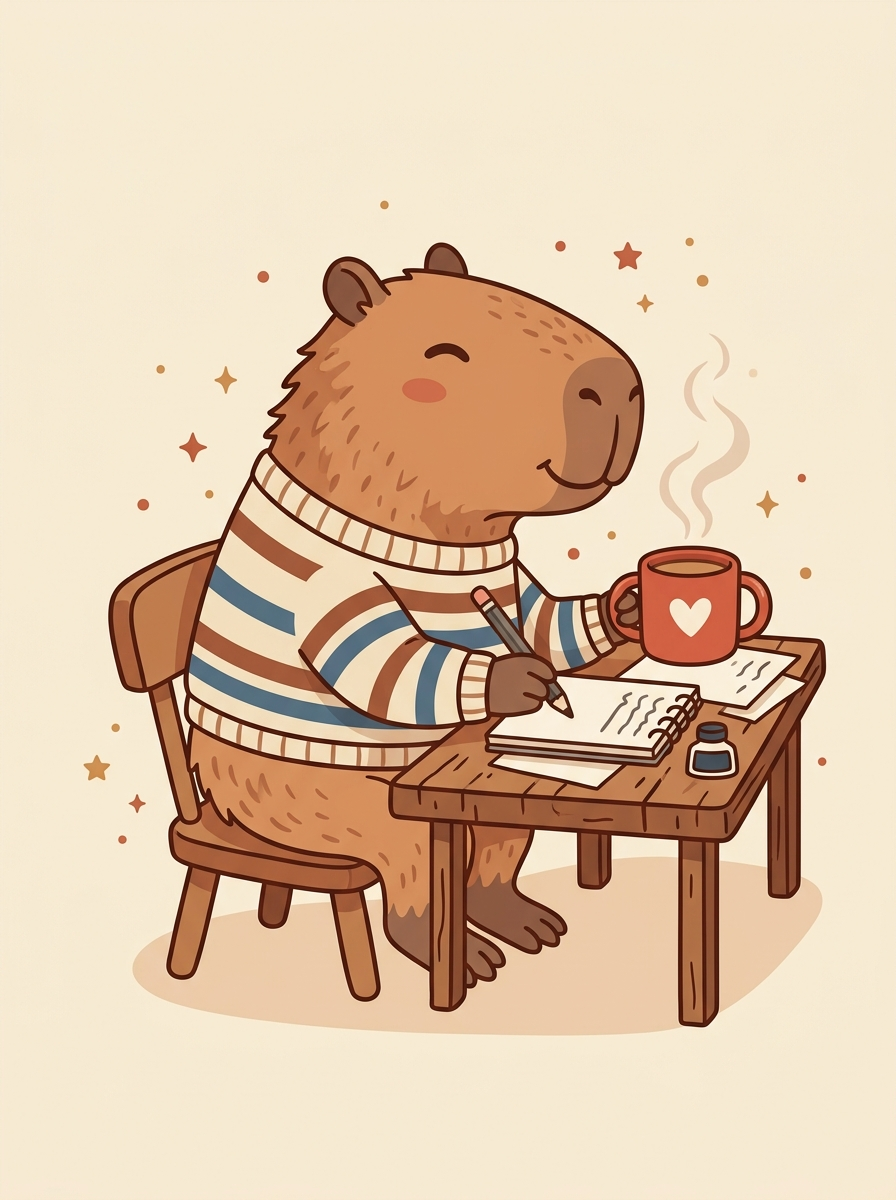
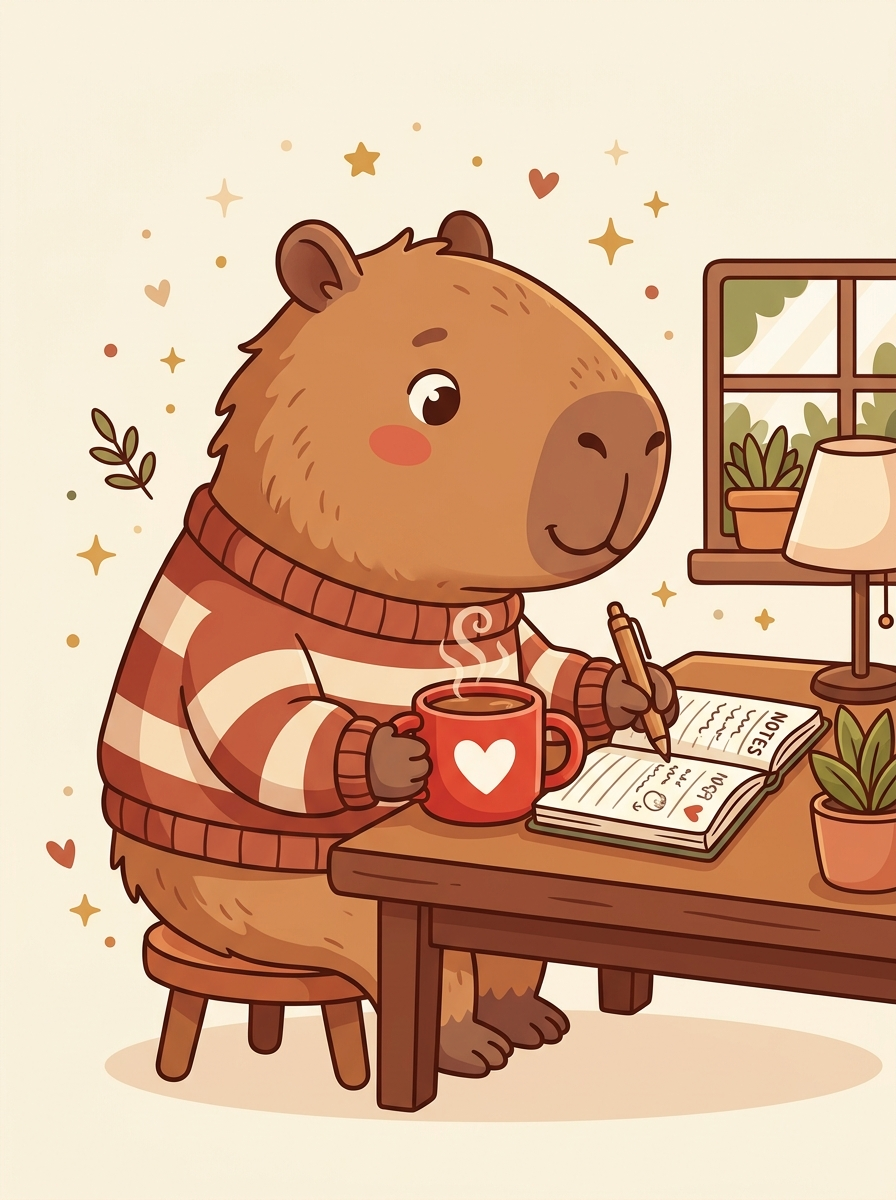
Fix homepage design to match premium mockup layout and multiply blend capybara

diff --git a/src/pages/HomePage.tsx b/src/pages/HomePage.tsx
@@ -3,77 +3,118 @@ import { getCatalogApps } from '../lib/apps';
 import { useDocumentMeta } from '../hooks/useDocumentMeta';
 import type { AppEntry } from '../types';
 
-/* ─── Icon SVGs per app slug ─── */
-function AppIcon({ slug, color, size = 28 }: { slug: string; color: string; size?: number }) {
-  const p = { width: size, height: size, viewBox: '0 0 24 24', fill: 'none', stroke: color, strokeWidth: 2, strokeLinecap: 'round' as const, strokeLinejoin: 'round' as const };
+/* ─── Premium Icon SVGs with filled shapes ─── */
+function AppIcon({ slug, color, size = 26 }: { slug: string; color: string; size?: number }) {
+  const p = { width: size, height: size, viewBox: '0 0 24 24', fill: 'none', stroke: color, strokeWidth: 2.25, strokeLinecap: 'round' as const, strokeLinejoin: 'round' as const };
   switch (slug) {
     case 'verbio':
-      return (<svg {...p}><path d="M4 19.5A2.5 2.5 0 0 1 6.5 17H20"/><path d="M6.5 2H20v20H6.5A2.5 2.5 0 0 1 4 19.5v-15A2.5 2.5 0 0 1 6.5 2z"/><path d="M8 7h8M8 11h6"/></svg>);
+      return (
+        <svg {...p}>
+          <path d="M4 19.5A2.5 2.5 0 0 1 6.5 17H20" />
+          <path d="M6.5 2H20v20H6.5A2.5 2.5 0 0 1 4 19.5v-15A2.5 2.5 0 0 1 6.5 2z" />
+          <circle cx="12" cy="10" r="2" fill={`${color}30`} />
+        </svg>
+      );
     case 'app-2':
-      return (<svg {...p}><path d="M14 2H6a2 2 0 0 0-2 2v16a2 2 0 0 0 2 2h12a2 2 0 0 0 2-2V8z"/><polyline points="14 2 14 8 20 8"/><line x1="16" y1="13" x2="8" y2="13"/><line x1="16" y1="17" x2="8" y2="17"/></svg>);
+      return (
+        <svg {...p}>
+          <path d="M14 2H6a2 2 0 0 0-2 2v16a2 2 0 0 0 2 2h12a2 2 0 0 0 2-2V8z" />
+          <polyline points="14 2 14 8 20 8" />
+          <line x1="16" y1="13" x2="8" y2="13" />
+          <line x1="16" y1="17" x2="8" y2="17" />
+        </svg>
+      );
     case 'app-3':
-      return (<svg {...p}><polyline points="22 12 18 12 15 21 9 3 6 12 2 12"/></svg>);
+      return (
+        <svg {...p}>
+          <path d="M3 3v18h18" />
+          <path d="M18.7 8l-5.1 5.2-2.8-2.7L7 14.3" />
+        </svg>
+      );
     case 'app-4':
-      return (<svg {...p}><path d="M17 21v-2a4 4 0 0 0-4-4H5a4 4 0 0 0-4 4v2"/><circle cx="9" cy="7" r="4"/><path d="M23 21v-2a4 4 0 0 0-3-3.87"/><path d="M16 3.13a4 4 0 0 1 0 7.75"/></svg>);
+      return (
+        <svg {...p}>
+          <path d="M17 21v-2a4 4 0 0 0-4-4H5a4 4 0 0 0-4 4v2" />
+          <circle cx="9" cy="7" r="4" fill={`${color}20`} />
+          <path d="M23 21v-2a4 4 0 0 0-3-3.87" />
+          <path d="M16 3.13a4 4 0 0 1 0 7.75" />
+        </svg>
+      );
     default:
-      return (<svg {...p}><rect x="3" y="3" width="18" height="18" rx="2" ry="2"/><path d="M9 12l2 2 4-4"/></svg>);
+      return (
+        <svg {...p}>
+          <rect x="3" y="3" width="18" height="18" rx="2" ry="2" />
+          <path d="M9 12l2 2 4-4" />
+        </svg>
+      );
   }
+}
+
+/* ─── Decorative 4-Point Golden Star SVG ─── */
+function GoldenStar({ className, style }: { className: string; style?: React.CSSProperties }) {
+  return (
+    <svg viewBox="0 0 24 24" className={`w-5 h-5 text-[#eab308] fill-current animate-float ${className}`} style={style}>
+      <path d="M12 0L14.8 9.2L24 12L14.8 14.8L12 24L9.2 14.8L0 12L9.2 9.2L12 0Z" />
+    </svg>
+  );
 }
 
 /* ─── Floating icon positions (desktop) ─── */
 const iconPositions = [
-  { top: '5%',  left: '2%',  delay: '0s' },
-  { top: '0%',  right: '5%', delay: '0.6s' },
-  { bottom: '15%', right: '0%', delay: '1.2s' },
-  { bottom: '5%',  left: '5%', delay: '1.8s' },
+  { top: '8%',   left: '4%',   delay: '0s' },
+  { top: '0%',   right: '6%',  delay: '0.6s' },
+  { bottom: '16%', right: '0%',  delay: '1.2s' },
+  { bottom: '3%',  left: '6%',   delay: '1.8s' },
 ];
 
 /* ─── Detail panel for a selected app ─── */
 function AppDetailPanel({ app, onClose }: { app: AppEntry; onClose: () => void }) {
   const isVerbio = app.slug === 'verbio';
   return (
-    <div className="animate-panel-expand mt-8 mx-auto max-w-4xl rounded-2xl bg-card border-2 border-[#e05e26]/25 p-8 lg:p-10"
-         style={{ boxShadow: '4px 4px 0 #d97706' }}>
-      <div className="flex flex-col sm:flex-row items-start justify-between gap-6">
+    <div className="animate-panel-expand mt-10 mx-auto max-w-4xl rounded-2xl bg-card border-2 border-clay/35 p-8 lg:p-10"
+         style={{ boxShadow: '6px 6px 0 var(--color-clay)' }}>
+      <div className="flex flex-col sm:flex-row items-start justify-between gap-8">
         <div className="flex-1 min-w-0">
-          <div className="flex items-center gap-3 mb-3">
-            <div className="flex h-10 w-10 items-center justify-center rounded-xl"
+          <div className="flex items-center gap-3 mb-4">
+            <div className="flex h-11 w-11 items-center justify-center rounded-xl"
                  style={{ backgroundColor: `${app.accentColor}18` }}>
-              <AppIcon slug={app.slug} color={app.accentColor} size={22} />
+              <AppIcon slug={app.slug} color={app.accentColor} size={24} />
             </div>
             <h3 className="font-sans text-2xl font-bold text-ink tracking-tight">{app.name}</h3>
           </div>
-          <p className="text-[15px] leading-relaxed text-ink-soft max-w-lg">{app.description}</p>
+          <p className="text-[16px] leading-relaxed text-ink-soft max-w-xl">{app.description}</p>
           {app.requiresAuth && (
-            <p className="mt-3 text-[13px] text-ink-soft/70">
-              Request access: <a href="mailto:[email redacted]" className="text-clay hover:underline">[email redacted]</a>
+            <p className="mt-4 text-[13px] text-ink-soft/70">
+              Request access: <a href="mailto:[email redacted]" className="text-clay hover:underline font-semibold">[email redacted]</a>
             </p>
           )}
         </div>
 
-        <div className="flex flex-col gap-3 min-w-[200px]">
+        <div className="flex flex-col gap-3 min-w-[210px] w-full sm:w-auto">
           {isVerbio && app.webUrl ? (
             <a href={app.webUrl} target="_blank" rel="noopener noreferrer"
-               className="flex items-center justify-center gap-2 rounded-xl bg-clay px-5 py-3 text-[14px] font-semibold text-white hover:bg-[#c04d1a] hover:-translate-y-0.5 transition-all duration-200">
-              <svg width="16" height="16" viewBox="0 0 24 24" fill="none" stroke="currentColor" strokeWidth="2" strokeLinecap="round" strokeLinejoin="round"><circle cx="12" cy="12" r="10"/><line x1="2" y1="12" x2="22" y2="12"/><path d="M12 2a15.3 15.3 0 0 1 4 10 15.3 15.3 0 0 1-4 10 15.3 15.3 0 0 1-4-10 15.3 15.3 0 0 1 4-10z"/></svg>
+               className="flex items-center justify-center gap-2 rounded-xl bg-clay px-6 py-3.5 text-[14px] font-bold text-white hover:bg-[#c04d1a] hover:-translate-y-0.5 active:translate-y-0 transition-all duration-200 shadow-md">
+              <svg width="18" height="18" viewBox="0 0 24 24" fill="none" stroke="currentColor" strokeWidth="2" strokeLinecap="round" strokeLinejoin="round"><circle cx="12" cy="12" r="10"/><line x1="2" y1="12" x2="22" y2="12"/><path d="M12 2a15.3 15.3 0 0 1 4 10 15.3 15.3 0 0 1-4 10 15.3 15.3 0 0 1-4-10 15.3 15.3 0 0 1 4-10z"/></svg>
               Open Web App
             </a>
           ) : (
-            <span className="flex items-center justify-center gap-2 rounded-xl bg-edge/50 px-5 py-3 text-[14px] font-medium text-ink-soft/60 cursor-default">
+            <span className="flex items-center justify-center gap-2 rounded-xl bg-edge/40 px-6 py-3.5 text-[14px] font-bold text-ink-soft/60 cursor-default border border-edge/30">
               Web App — Coming Soon
             </span>
           )}
-          <span className="flex items-center justify-center gap-2 rounded-xl bg-edge/30 px-5 py-2.5 text-[13px] font-medium text-ink-soft/50 cursor-default">
+          <span className="flex items-center justify-center gap-2 rounded-xl bg-edge/20 px-6 py-3 text-[13px] font-semibold text-ink-soft/50 cursor-default">
             iOS App — Coming Soon
           </span>
-          <span className="flex items-center justify-center gap-2 rounded-xl bg-edge/30 px-5 py-2.5 text-[13px] font-medium text-ink-soft/50 cursor-default">
+          <span className="flex items-center justify-center gap-2 rounded-xl bg-edge/20 px-6 py-3 text-[13px] font-semibold text-ink-soft/50 cursor-default">
             Android App — Coming Soon
           </span>
         </div>
       </div>
-      <button onClick={onClose} className="mt-6 text-[13px] font-medium text-ink-soft/50 hover:text-clay transition-colors cursor-pointer">
-        Close
-      </button>
+      <div className="mt-6 flex justify-end">
+        <button onClick={onClose} className="text-[14px] font-bold text-ink-soft/60 hover:text-clay transition-colors cursor-pointer">
+          Close Panel
+        </button>
+      </div>
     </div>
   );
 }
@@ -94,77 +135,83 @@ export function HomePage() {
 
   return (
     <>
-      {/* Hero — fits in one viewport on 1080p */}
-      <section className="mx-auto max-w-6xl px-6 pt-6 sm:pt-10 lg:pt-14">
-        <div className="flex flex-col lg:flex-row items-center justify-between gap-8 lg:gap-4">
+      {/* Hero — fits beautifully in one viewport */}
+      <section className="mx-auto max-w-6xl px-6 pt-8 sm:pt-12 lg:pt-16">
+        <div className="flex flex-col lg:flex-row items-center justify-between gap-10 lg:gap-6">
 
-          {/* Capybara + floating icons */}
-          <div className="relative w-full lg:w-[55%] flex justify-center">
-            {/* Decorative sparkle dots */}
+          {/* Capybara + floating icons container */}
+          <div className="relative w-full lg:w-[50%] flex justify-center">
+            
+            {/* SVG Golden Star sparkles */}
             <div className="absolute w-full h-full pointer-events-none" aria-hidden="true">
-              <span className="absolute top-[8%] left-[18%] w-1.5 h-1.5 rounded-full bg-[#d97706]/30 animate-float" style={{ animationDelay: '0.3s' }} />
-              <span className="absolute top-[15%] right-[22%] w-2 h-2 rounded-full bg-[#16a34a]/20 animate-float" style={{ animationDelay: '1s' }} />
-              <span className="absolute bottom-[22%] left-[12%] w-1 h-1 rounded-full bg-[#0284c7]/30 animate-float" style={{ animationDelay: '1.6s' }} />
-              <span className="absolute bottom-[30%] right-[15%] w-1.5 h-1.5 rounded-full bg-[#eab308]/25 animate-float" style={{ animationDelay: '0.8s' }} />
-              <span className="absolute top-[45%] left-[5%] w-1 h-1 rounded-full bg-clay/20 animate-float" style={{ animationDelay: '2s' }} />
-              <span className="absolute top-[35%] right-[8%] w-2 h-2 rounded-full bg-[#d97706]/15 animate-float" style={{ animationDelay: '1.3s' }} />
+              <GoldenStar className="absolute top-[5%] left-[20%]" style={{ animationDelay: '0.2s', animationDuration: '4.5s' }} />
+              <GoldenStar className="absolute top-[20%] right-[22%]" style={{ animationDelay: '0.8s', animationDuration: '5s' }} />
+              <GoldenStar className="absolute bottom-[24%] left-[12%]" style={{ animationDelay: '1.4s', animationDuration: '4.2s' }} />
+              <GoldenStar className="absolute bottom-[18%] right-[16%]" style={{ animationDelay: '2s', animationDuration: '5.5s' }} />
             </div>
 
-            {/* Floating app icons */}
+            {/* Desktop floating premium icons */}
             <div className="hidden lg:block">
               {catalog.map((app, i) => {
                 const pos = iconPositions[i];
                 const isSelected = selectedApp?.slug === app.slug;
+                
                 return (
                   <button
                     key={app.slug}
                     onClick={() => handleIconClick(app)}
                     className={[
-                      'absolute z-10 flex h-14 w-14 items-center justify-center rounded-2xl border-2 cursor-pointer',
-                      'transition-all duration-300 animate-icon-float',
+                      'absolute z-10 flex h-15 w-15 items-center justify-center rounded-[18px] border-2 cursor-pointer',
+                      'transition-all duration-300 ease-out animate-icon-float group',
                       isSelected
-                        ? 'border-clay bg-clay/10 scale-110 shadow-lg'
-                        : 'border-transparent bg-card/90 hover:border-clay/40 hover:scale-110 hover:shadow-md',
+                        ? 'scale-115 -translate-y-1'
+                        : 'hover:-translate-y-1 hover:scale-110 active:scale-95',
                     ].join(' ')}
                     style={{
                       ...pos,
                       animationDelay: pos.delay,
-                      boxShadow: isSelected ? `0 0 20px ${app.accentColor}40` : undefined,
+                      borderColor: isSelected ? 'var(--color-clay)' : '#e05e26',
+                      backgroundColor: isSelected ? `${app.accentColor}24` : '#fffdf9',
+                      boxShadow: isSelected 
+                        ? '4px 4px 0 var(--color-clay)' 
+                        : '3px 3px 0 var(--color-clay)',
                     }}
                     aria-label={`Show details for ${app.name}`}
                     title={app.name}
                   >
-                    <AppIcon slug={app.slug} color={app.accentColor} />
+                    <div className="transition-transform duration-300 group-hover:scale-110">
+                      <AppIcon slug={app.slug} color={app.accentColor} />
+                    </div>
                   </button>
                 );
               })}
             </div>
 
-            {/* Capybara image */}
+            {/* Capybara image with mixBlendMode: multiply so it blends with background color */}
             <img
               src="/capybara-main.jpg"
               alt="Capybara mascot peacefully working at a desk with a two-handled cup"
-              className="w-full max-w-[380px] lg:max-w-[420px] object-contain animate-float relative z-0"
-              style={{ animationDuration: '5s' }}
+              className="w-full max-w-[360px] lg:max-w-[400px] object-contain animate-float relative z-0"
+              style={{ animationDuration: '5.5s', mixBlendMode: 'multiply' }}
             />
           </div>
 
           {/* Text */}
-          <div className="w-full lg:w-[45%] text-center lg:text-left">
-            <h1 className="font-sans text-[36px] leading-[1.08] font-bold tracking-tight text-[#3b2b24] sm:text-[46px] lg:text-[54px]">
+          <div className="w-full lg:w-[48%] text-center lg:text-left">
+            <h1 className="font-sans text-[38px] leading-[1.08] font-bold tracking-tight text-[#3b2b24] sm:text-[48px] lg:text-[56px]">
               Everyday tasks,<br/>Simple tools
             </h1>
-            <p className="mt-4 text-[16px] leading-relaxed text-[#5c4f48] max-w-[400px] mx-auto lg:mx-0">
+            <p className="mt-5 text-[17px] leading-relaxed text-[#5c4f48] max-w-[420px] mx-auto lg:mx-0">
               Streamline your daily operations with intuitive and effective digital tools, tailored to your unique needs.
             </p>
-            <p className="mt-2 text-[13px] italic text-[#8a7b70]">
+            <p className="mt-3 text-[13px] italic text-[#8a7b70]">
               Less stress. More calm.
             </p>
           </div>
         </div>
 
         {/* Mobile icon grid — shown below capybara on small screens */}
-        <div className="lg:hidden mt-8 flex justify-center gap-4">
+        <div className="lg:hidden mt-8 flex justify-center gap-5">
           {catalog.map((app) => {
             const isSelected = selectedApp?.slug === app.slug;
             return (
@@ -172,12 +219,17 @@ export function HomePage() {
                 key={app.slug}
                 onClick={() => handleIconClick(app)}
                 className={[
-                  'flex h-14 w-14 items-center justify-center rounded-2xl border-2 cursor-pointer',
+                  'flex h-14 w-14 items-center justify-center rounded-[18px] border-2 cursor-pointer',
                   'transition-all duration-300',
                   isSelected
-                    ? 'border-clay bg-clay/10 scale-110 shadow-lg'
-                    : 'border-edge/60 bg-card hover:border-clay/40 hover:scale-110',
+                    ? 'scale-110'
+                    : 'active:scale-95',
                 ].join(' ')}
+                style={{
+                  borderColor: isSelected ? 'var(--color-clay)' : '#e05e26',
+                  backgroundColor: isSelected ? `${app.accentColor}24` : '#fffdf9',
+                  boxShadow: isSelected ? '3px 3px 0 var(--color-clay)' : '2px 2px 0 var(--color-clay)',
+                }}
                 aria-label={`Show details for ${app.name}`}
                 title={app.name}
               >
@@ -193,13 +245,13 @@ export function HomePage() {
         )}
       </section>
 
-      {/* Ko-fi Link — must always be present */}
-      <section className="mx-auto max-w-6xl px-6 py-8 text-center">
+      {/* Ko-fi Link — always present below cards */}
+      <section className="mx-auto max-w-6xl px-6 py-10 text-center">
         <a
           href="https://ko-fi.com/alfcosolutions"
           target="_blank"
           rel="noopener noreferrer"
-          className="group inline-flex items-center gap-3 rounded-2xl border-2 border-[#d97706]/30 bg-[#d97706]/5 px-7 py-3 text-[15px] font-semibold text-[#b45309] hover:bg-[#d97706] hover:text-white hover:border-[#d97706] hover:-translate-y-1 hover:shadow-lg transition-all duration-300"
+          className="group inline-flex items-center gap-3 rounded-2xl border-2 border-[#d97706]/35 bg-[#d97706]/5 px-8 py-3.5 text-[15px] font-bold text-[#b45309] hover:bg-[#d97706] hover:text-white hover:border-[#d97706] hover:-translate-y-1 hover:shadow-lg transition-all duration-300"
         >
           <svg width="20" height="20" viewBox="0 0 24 24" fill="currentColor" stroke="none" className="transition-transform duration-300 group-hover:scale-110">
             <path d="M23.881 8.948c-.773-4.085-4.859-4.593-4.859-4.593H.723c-.604 0-.679.798-.679.798s-.082 7.324-.022 11.822c.164 2.424 2.586 2.672 2.586 2.672s8.267-.023 11.966-.049c2.438-.426 2.683-2.566 2.658-3.143V14.1s4.444.665 6.138-1.574c1.396-1.848 1.139-3.393.511-3.578zm-5.066 3.652s-3.793.528-3.793.528V6.997s4.453.513 4.453 1.942c0 1.428-1.077 3.661-.66 3.661z"/>
@@ -209,7 +261,7 @@ export function HomePage() {
       </section>
 
       {/* Motto banner */}
-      <section className="mx-auto max-w-4xl px-6 pb-6">
+      <section className="mx-auto max-w-4xl px-6 pb-8">
         <div className="rounded-2xl bg-[#f5ece0] px-8 py-5 text-center">
           <p className="font-sans text-[17px] font-semibold text-[#5c4f48] tracking-tight">
             Everyday tasks + Simple tools = Less stress.